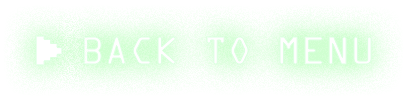
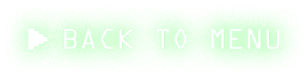
CambiosGUI

diff --git a/CuatrikiStar/src/co/edu/unbosque/view/RegistroJugador.java b/CuatrikiStar/src/co/edu/unbosque/view/RegistroJugador.java
@@ -20,10 +20,11 @@ public class RegistroJugador extends JPanel {
     private JTextField nombreJugador1;
     private JTextField nombreJugador2;
     private FontConfig fontConfig;  // Instancia de Configuracion de Fuente.
+    private ImageConfig Fondo;
 
     public RegistroJugador() {
  
-        setBounds(0, 0, 1300, 900);
+        setBounds(0, 0, 975, 675);
         setBackground(null);
         setLayout(null);
         setVisible(true);
@@ -38,7 +39,7 @@ public class RegistroJugador extends JPanel {
 
     	 // Campo de texto para el nombre del Jugador 1
         nombreJugador1 = new JTextField();
-        nombreJugador1.setBounds(171, 403, 310, 75);
+        nombreJugador1.setBounds(113, 306, 232, 56);
         nombreJugador1.setOpaque(false);
         nombreJugador1.setBorder(new EmptyBorder(0, 0, 0, 0));
         nombreJugador1.setHorizontalAlignment(JTextField.CENTER);
@@ -48,7 +49,7 @@ public class RegistroJugador extends JPanel {
 
         // Campo de texto para el nombre del Jugador 2
         nombreJugador2 = new JTextField();
-        nombreJugador2.setBounds(826, 403, 310, 75);
+        nombreJugador2.setBounds(620, 306, 232, 56);
         nombreJugador2.setOpaque(false);
         nombreJugador2.setBorder(new EmptyBorder(0, 0, 0, 0));
         nombreJugador2.setHorizontalAlignment(JTextField.CENTER);
@@ -58,7 +59,7 @@ public class RegistroJugador extends JPanel {
 
         // Botón invisible para guardar el nombre del Jugador 1
         guardarJugador1 = new JButton();
-        guardarJugador1.setBounds(249, 528, 148, 46);
+        guardarJugador1.setBounds(180, 400, 148, 46);
         guardarJugador1.setContentAreaFilled(false);  // Mantener invisible pero funcional
         guardarJugador1.setBorderPainted(false);
         guardarJugador1.setFocusPainted(false);
@@ -66,7 +67,7 @@ public class RegistroJugador extends JPanel {
 
         // Botón invisible para guardar el nombre del Jugador 2
         guardarJugador2 = new JButton();
-        guardarJugador2.setBounds(899, 528, 148, 46);
+        guardarJugador2.setBounds(680, 400, 148, 46);
         guardarJugador2.setContentAreaFilled(false);  // Mantener invisible pero funcional
         guardarJugador2.setBorderPainted(false);
         guardarJugador2.setFocusPainted(false);
@@ -74,7 +75,7 @@ public class RegistroJugador extends JPanel {
 
         // Botón invisible para iniciar el juego
         playButton = new JButton();
-        playButton.setBounds(516, 668, 276, 128);
+        playButton.setBounds(387, 501, 207, 96);
         playButton.setContentAreaFilled(false);  // Mantener invisible pero funcional
         playButton.setBorderPainted(false);
         playButton.setFocusPainted(false);
@@ -82,18 +83,16 @@ public class RegistroJugador extends JPanel {
 
         ImageIcon GUIPlayers = new ImageIcon(getClass().getResource("/images/RegistroJugador/GU.png"));
         JLabel labelGUIPlayers = new JLabel(GUIPlayers);
-        labelGUIPlayers.setBounds(0, 0, 1300, 900);
+        labelGUIPlayers.setBounds(0, 0, 975, 675);
         add(labelGUIPlayers);
 
         ImageIcon Players = new ImageIcon(getClass().getResource("/images/RegistroJugador/PLAYERS.png"));
         JLabel labelPlayers = new JLabel(Players);
-        labelPlayers.setBounds(0, 0, 1300, 900);
+        labelPlayers.setBounds(0, 0, 975, 675);
         add(labelPlayers);
 
-        ImageIcon Fondo = new ImageIcon(getClass().getResource("/images/PanelInicio/FONDO.png"));
-        JLabel labelFondo = new JLabel(Fondo);
-        labelFondo.setBounds(0, 0, 1300, 900);
-        add(labelFondo);
+        Fondo = new ImageConfig();
+		Fondo.dibujarFondo(this);
     }
 
 	public JButton getGuardarJugador1() {

diff --git a/CuatrikiStar/src/co/edu/unbosque/view/JugarCuatriki.java b/CuatrikiStar/src/co/edu/unbosque/view/JugarCuatriki.java
@@ -19,7 +19,7 @@ public class JugarCuatriki extends JPanel {
     private MatrizDeJuego matrizDeJuego;
 
     public JugarCuatriki() {
-        setBounds(0, 0, 1300, 900);
+        setBounds(0, 0, 975, 675);
         setLayout(null);
         setVisible(true);
         fontConfig = new FontConfig();
@@ -29,7 +29,7 @@ public class JugarCuatriki extends JPanel {
     private void inicializarComponentes() {
         // Donde se mostrará la consola
         consola = new JTextArea();
-        consola.setBounds(837, 269, 397, 503);
+        consola.setBounds(628, 202, 298, 377);
         consola.setEditable(true);
         consola.setOpaque(false);
         consola.setBorder(new EmptyBorder(0, 0, 0, 0));
@@ -39,7 +39,7 @@ public class JugarCuatriki extends JPanel {
 
         // Botón para reiniciar el juego
         restartButton = new JButton();
-        restartButton.setBounds(75, 808, 277, 102);
+        restartButton.setBounds(56, 588, 208, 77);
         restartButton.setContentAreaFilled(false);
         restartButton.setBorderPainted(false);
         restartButton.setFocusPainted(false);
@@ -47,7 +47,7 @@ public class JugarCuatriki extends JPanel {
 
         // Botón para volver al menú principal
         backMenuButton = new JButton();
-        backMenuButton.setBounds(390, 808, 397, 102);
+        backMenuButton.setBounds(293, 588, 307, 77);
         backMenuButton.setContentAreaFilled(false);
         backMenuButton.setBorderPainted(false);
         backMenuButton.setFocusPainted(false);
@@ -55,37 +55,37 @@ public class JugarCuatriki extends JPanel {
 
         // Botón para ver el historial de partidas
         gameHButton = new JButton();
-        gameHButton.setBounds(837, 808, 409, 102);
+        gameHButton.setBounds(628, 588, 298, 77);
         gameHButton.setContentAreaFilled(false);
         gameHButton.setBorderPainted(false);
         gameHButton.setFocusPainted(false);
         add(gameHButton);
         
         matrizDeJuego = new MatrizDeJuego();
-        matrizDeJuego.setBounds(107, 212, 596, 551);  // Posicionar la matriz de juego
+        matrizDeJuego.setBounds(80, 159, 447, 413);  // Posicionar la matriz de juego
         add(matrizDeJuego);  // Agregar la matriz al panel
         
         ImageIcon fondoMatriz = new ImageIcon(getClass().getResource("/images/matriz/MATRIZDIBUJO.png"));
 		JLabel labelfondoMatriz = new JLabel(fondoMatriz);
-		labelfondoMatriz.setBounds(107, 212, 596, 551);
+		labelfondoMatriz.setBounds(80, 159, 447, 413);
 		add(labelfondoMatriz);
 
         // Imágenes para los botones
         JLabel labelRestart = new JLabel(new ImageIcon(getClass().getResource("/images/JugarCuatriki/RESTART.png")));
-        labelRestart.setBounds(75, 808, 277, 102);
+        labelRestart.setBounds(56, 588, 208, 77);
         add(labelRestart);
 
         JLabel labelBackMenu = new JLabel(new ImageIcon(getClass().getResource("/images/JugarCuatriki/BACK TO MENU.png")));
-        labelBackMenu.setBounds(390, 808, 409, 102);
+        labelBackMenu.setBounds(293, 588, 307, 77);
         add(labelBackMenu);
 
         JLabel labelGameH = new JLabel(new ImageIcon(getClass().getResource("/images/JugarCuatriki/GAME HISTORY.png")));
-        labelGameH.setBounds(837, 808, 397, 102);
+        labelGameH.setBounds(628, 588, 298, 77);
         add(labelGameH);
 
         // Fondo de pantalla del juego
         JLabel labelDemo1Screen = new JLabel(new ImageIcon(getClass().getResource("/images/JugarCuatriki/Demo1Screen.png")));
-        labelDemo1Screen.setBounds(0, 0, 1300, 900);
+        labelDemo1Screen.setBounds(0, 0, 975, 675);
         add(labelDemo1Screen);
     }
 

diff --git a/CuatrikiStar/src/co/edu/unbosque/view/HistorialPartidas.java b/CuatrikiStar/src/co/edu/unbosque/view/HistorialPartidas.java
@@ -19,7 +19,7 @@ public class HistorialPartidas extends JPanel {
 	private FontConfig fontConfig;  // Instancia de Configuracion de Fuente.
 
 	public HistorialPartidas() {
-		setBounds(0, 0, 1300, 900);
+		setBounds(0, 0, 975, 675);
 		setBackground(null);
 		setLayout(null);
 		setVisible(true);
@@ -35,7 +35,7 @@ public class HistorialPartidas extends JPanel {
 
 		// Botón para volver al menú principal
 		backMenuButton = new JButton();
-		backMenuButton.setBounds(731, 795, 397, 102);
+		backMenuButton.setBounds(548, 596, 307, 77);
 		backMenuButton.setContentAreaFilled(false);
 		backMenuButton.setBorderPainted(false);
 		backMenuButton.setFocusPainted(false);
@@ -43,7 +43,7 @@ public class HistorialPartidas extends JPanel {
 
 		// Botón para volver a la partida
 		backToGame = new JButton();
-		backToGame.setBounds(137, 795, 435, 102);
+		backToGame.setBounds(103, 596, 326, 77);
 		backToGame.setContentAreaFilled(false);
 		backToGame.setBorderPainted(false);
 		backToGame.setFocusPainted(false);
@@ -51,7 +51,7 @@ public class HistorialPartidas extends JPanel {
 
 		// Donde se mostrará la consola
 		ConsolaHistorial = new JTextArea();
-		ConsolaHistorial.setBounds(70, 336, 1166, 409);
+		ConsolaHistorial.setBounds(53, 252, 875, 307);
 		ConsolaHistorial.setEditable(true);
 		ConsolaHistorial.setOpaque(false);
 		ConsolaHistorial.setBorder(new EmptyBorder(0, 0, 0, 0));
@@ -60,16 +60,16 @@ public class HistorialPartidas extends JPanel {
 		add(ConsolaHistorial);
 
 		JLabel labelBackGame = new JLabel(new ImageIcon(getClass().getResource("/images/HistorialPartidas/BACK TO GAME.png")));
-		labelBackGame.setBounds(137, 795, 435, 102);
+		labelBackGame.setBounds(103, 596, 326, 77);
 		add(labelBackGame);
 
 		JLabel labelBackMenu = new JLabel(new ImageIcon(getClass().getResource("/images/JugarCuatriki/BACK TO MENU.png")));
-		labelBackMenu.setBounds(731, 795, 409, 102);
+		labelBackMenu.setBounds(548, 596, 307, 77);
 		add(labelBackMenu);
 
 		ImageIcon FondoHistorial = new ImageIcon(getClass().getResource("/images/HistorialPartidas/HistorialBack.png"));
 		JLabel labelFondoHistorial = new JLabel(FondoHistorial);
-		labelFondoHistorial.setBounds(0, 0, 1300, 900);
+		labelFondoHistorial.setBounds(0, 0, 975, 675);
 		add(labelFondoHistorial);
 
 	}

diff --git a/CuatrikiStar/src/co/edu/unbosque/view/PantallaInicio.java b/CuatrikiStar/src/co/edu/unbosque/view/PantallaInicio.java
@@ -15,7 +15,7 @@ public class PantallaInicio extends JPanel {
 
 	public PantallaInicio() {
 
-		setBounds(0, 0, 1300, 900);
+		setBounds(0, 0, 975, 675);
 		setBackground(null);
 		setLayout(null);
 		setVisible(true);
@@ -28,7 +28,7 @@ public class PantallaInicio extends JPanel {
 
 		// Botón para iniciar el juego
         startButton = new JButton();
-        startButton.setBounds(516, 600, 276, 128);
+        startButton.setBounds(387, 450, 207, 96);
         startButton.setContentAreaFilled(false);  // Mantener invisible pero funcional
         startButton.setBorderPainted(false);
         startButton.setFocusPainted(false);
@@ -36,7 +36,7 @@ public class PantallaInicio extends JPanel {
 
         // Botón para ver el historial de partidas
         gameHistoryButton = new JButton();
-        gameHistoryButton.setBounds(455, 700, 397, 102);
+        gameHistoryButton.setBounds(341, 525, 298, 77);
         gameHistoryButton.setContentAreaFilled(false);  // Mantener invisible pero funcional
         gameHistoryButton.setBorderPainted(false);
         gameHistoryButton.setFocusPainted(false);
@@ -44,17 +44,17 @@ public class PantallaInicio extends JPanel {
 		
 		ImageIcon GameH = new ImageIcon(getClass().getResource("/images/JugarCuatriki/GAME HISTORY.png"));
 		JLabel labelGameH = new JLabel(GameH);
-		labelGameH.setBounds(455, 700, 397, 102);
+		labelGameH.setBounds(341, 525, 298, 77);
 		add(labelGameH);
 
 		ImageIcon StartButton = new ImageIcon(getClass().getResource("/images/PanelInicio/STARTBUTTON.png"));
 		JLabel labelStartButton = new JLabel(StartButton);
-		labelStartButton.setBounds(516, 600, 276, 128);
+		labelStartButton.setBounds(387, 450, 207, 96);
 		add(labelStartButton);
 
 		ImageIcon Logo = new ImageIcon(getClass().getResource("/images/PanelInicio/LOGO.png"));
 		JLabel labelLogo = new JLabel(Logo);
-		labelLogo.setBounds(-20,0,1300,900);
+		labelLogo.setBounds(0,0,975,675);
 		add(labelLogo);
 
 		Fondo = new ImageConfig();

diff --git a/CuatrikiStar/src/co/edu/unbosque/view/VentanaPrincipal.java b/CuatrikiStar/src/co/edu/unbosque/view/VentanaPrincipal.java
@@ -15,28 +15,28 @@ public class VentanaPrincipal extends JFrame{
 	public VentanaPrincipal() {
 
 		setTitle("CuatrikiStar");
-		setSize(1300, 930);
+		setSize(975, 697);
 		setDefaultCloseOperation(JFrame.EXIT_ON_CLOSE);
 		getContentPane().setBackground(Color.WHITE);
 		getContentPane().setLayout(null);
 
 
 		pInicio = new PantallaInicio();
-		pInicio.setBounds(0, 0, 1300, 900);
+		pInicio.setBounds(0, 0, 975, 675);
 		getContentPane().add(pInicio);
 
 		rJugador = new RegistroJugador();
-		rJugador.setBounds(0, 0, 1300, 900);
+		rJugador.setBounds(0, 0, 975, 675);
 		rJugador.setVisible(false);
 		getContentPane().add(rJugador);
 
 		jCuatriki = new JugarCuatriki();
-		jCuatriki.setBounds(0, 0, 1300, 900);
+		jCuatriki.setBounds(0, 0, 975, 675);
 		jCuatriki.setVisible(false);
 		getContentPane().add(jCuatriki);
 
 		hPartidas = new HistorialPartidas();
-		hPartidas.setBounds(0, 0, 1300, 900);
+		hPartidas.setBounds(0, 0, 975, 675);
 		hPartidas.setVisible(false);
 		getContentPane().add(hPartidas);
 

diff --git a/CuatrikiStar/src/config/ImageConfig.java b/CuatrikiStar/src/config/ImageConfig.java
@@ -28,7 +28,7 @@ public class ImageConfig {
 
             // Crear y configurar el JLabel con la imagen de fondo
             JLabel labelFondo = new JLabel(Fondo);
-            labelFondo.setBounds(0, 0, 1300, 900);  // Ajusta según las dimensiones del panel
+            labelFondo.setBounds(0, 0, 975, 675);  // Ajusta según las dimensiones del panel
             panel.setLayout(null);  // Asegurarse de que el layout sea null para el posicionamiento
             panel.add(labelFondo);
 

diff --git a/CuatrikiStar/src/co/edu/unbosque/view/MatrizDeJuego.java b/CuatrikiStar/src/co/edu/unbosque/view/MatrizDeJuego.java
@@ -12,7 +12,7 @@ public class MatrizDeJuego extends JPanel {
     private ImageIcon imagenO;
 
     public MatrizDeJuego() {
-        setBounds(0, 0, 596, 551); 
+        setBounds(0, 0, 447, 413); 
         setOpaque(false);
         setLayout(new GridLayout(4, 4, 2, 2)); 
 
